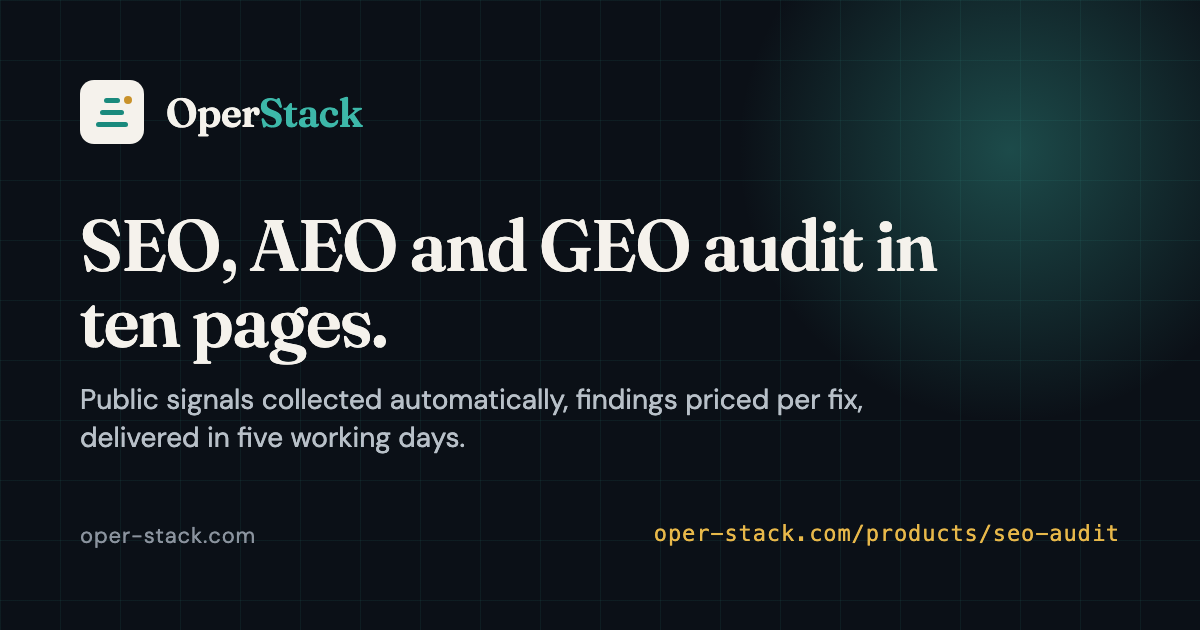
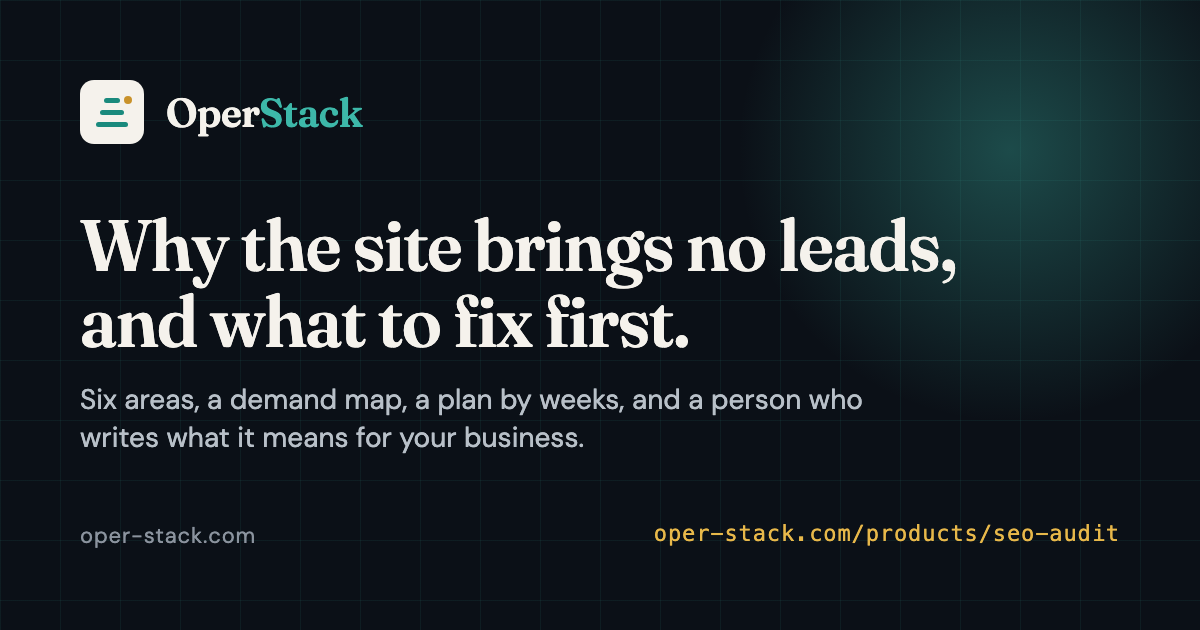
fix: обложка аудита говорила про десять страниц и цену за правку
Ступень перестроена: другой вопрос, карта спроса, перепроверка через 90 дней.
Стало: «Why the site brings no leads, and what to fix first».

Тот же файл стоит карточкой ссылки на oper-stack.com и обложкой товара
на Whop, обе площадки обновлены.

Changed region(s): [[0.0617, 0.3317, 0.8017, 0.7238]]

diff --git a/og-audit.html b/og-audit.html
@@ -21,7 +21,7 @@
 <div class="grid"></div><div class="glow"></div>
 <div class="wrap">
   <div class="brand"><div class="mark"><i></i><i></i><i></i><b></b></div><div class="name">Oper<span>Stack</span></div></div>
-  <div><h1>SEO, AEO and GEO audit in ten pages.</h1><p>Public signals collected automatically, findings priced per fix, delivered in five working days.</p></div>
+  <div><h1>Why the site brings no leads, and what to fix first.</h1><p>Six areas, a demand map, a plan by weeks, and a person who writes what it means for your business.</p></div>
   <div class="foot"><span>oper-stack.com</span><code>oper-stack.com/products/seo-audit</code></div>
 </div>
 </body></html>
